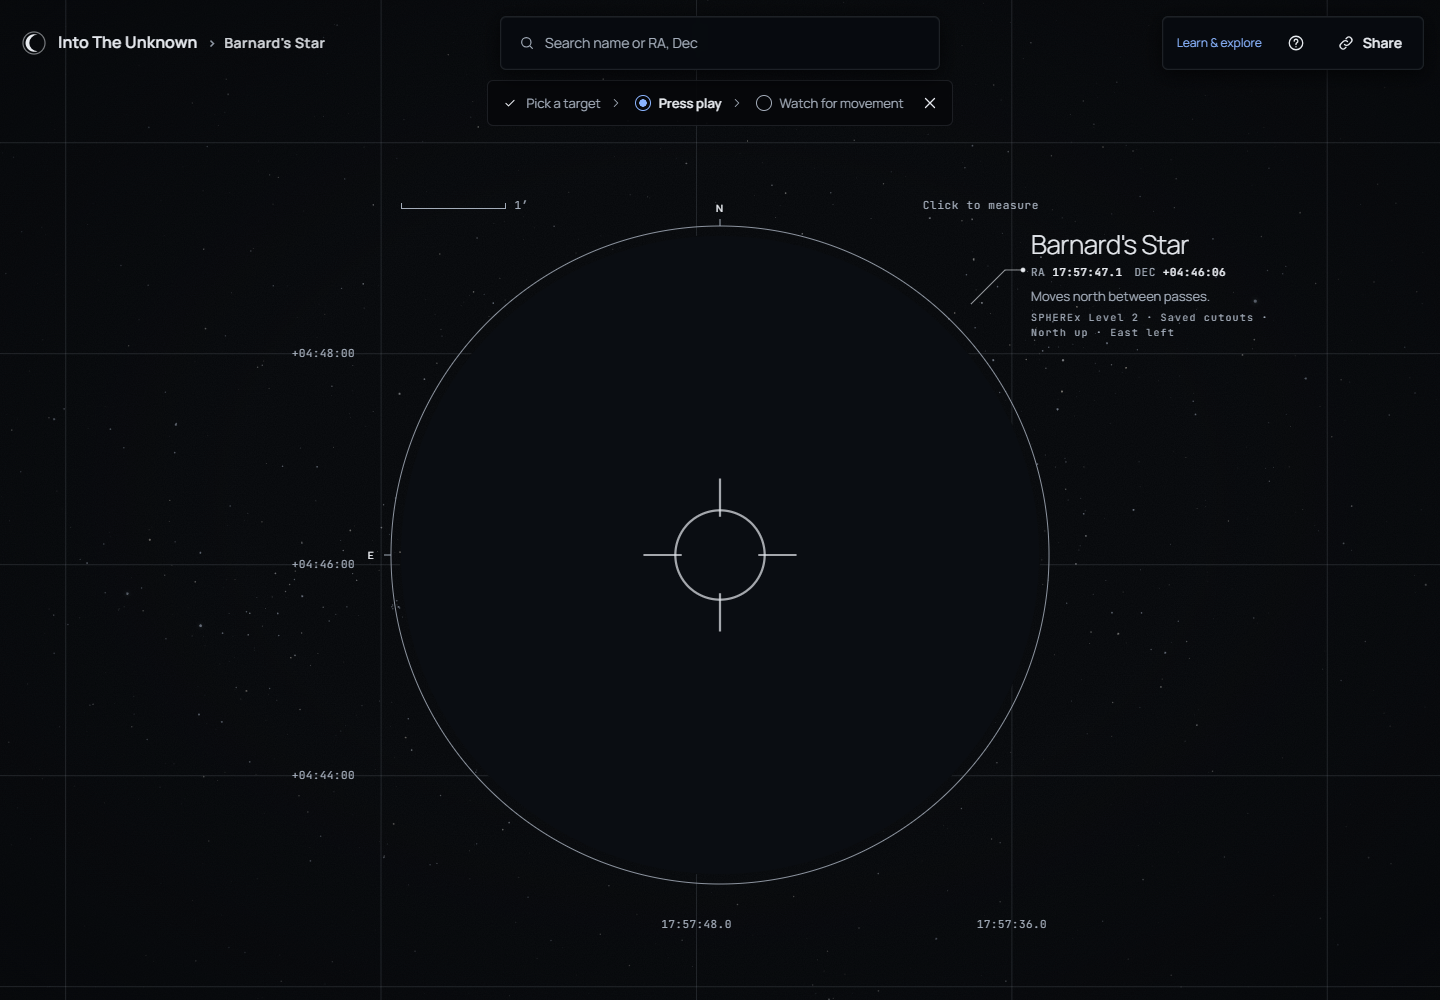
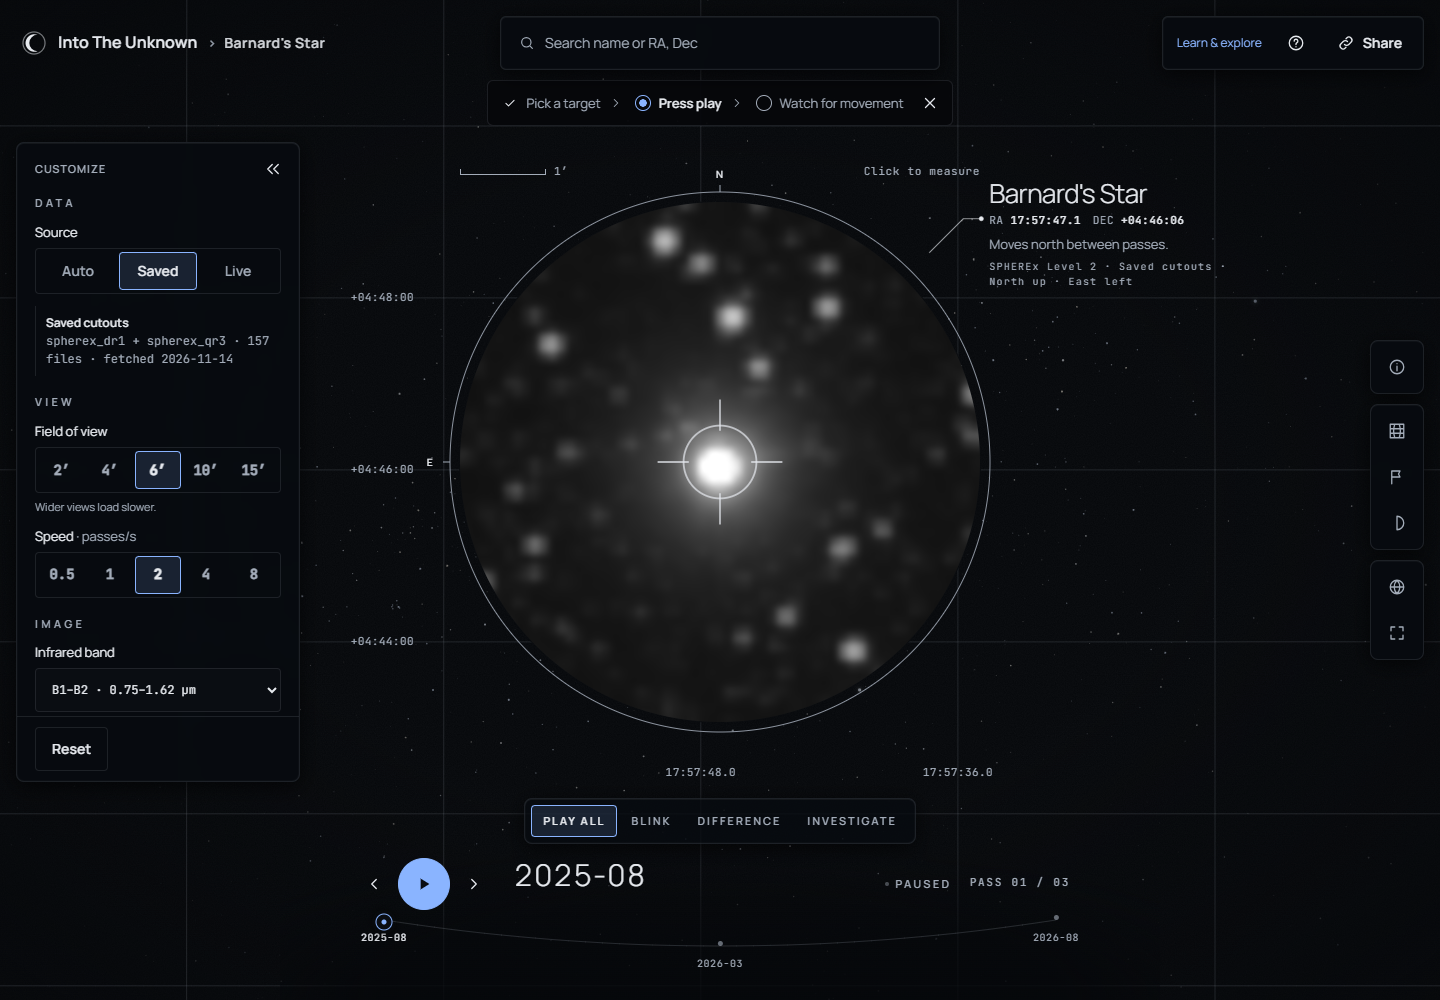
test: require painted sky pixels in browser validation

diff --git a/scripts/validate_integrated.py b/scripts/validate_integrated.py
@@ -297,6 +297,18 @@ def main():
                         state="visible",
                         timeout=30000,
                     )
+                    # A mounted transparent canvas precedes its first paint and
+                    # the eyepiece fade. Require actual visible pixels before
+                    # recording a successful render or capturing evidence.
+                    page.wait_for_function("""() => {
+                        const c = document.querySelector('canvas[aria-label^="SPHEREx image, epoch"]');
+                        if (!c || c.dataset.ready !== 'true') return false;
+                        for (let e = c; e; e = e.parentElement) {
+                            if (Number(getComputedStyle(e).opacity) < 0.99) return false;
+                        }
+                        const bytes = c.getContext('2d').getImageData(0, 0, c.width, c.height).data;
+                        return bytes.some((value, index) => index % 4 !== 3 && value > 0);
+                    }""")
                     page.screenshot(path=str(args.out / f"react-{target.id}.png"))
                     reports[target.id]["react_api_offline"] = True
                 browser.close()

diff --git a/validation.md b/validation.md
@@ -2,7 +2,7 @@
 
 ## Current React + FastAPI app
 
-Generated 2026-11-15T06:37:33.142420+00:00; pipeline version **3**.
+Generated 2026-11-15T06:45:21.916302+00:00; pipeline version **3**.
 
 All five targets were assessed against the actual saved epoch MJDs and rendered float arrays. A FAIL is a failed science criterion or an unmet validation prerequisite, not a failed web application. No new astronomy data was downloaded.
 
